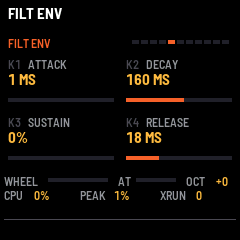
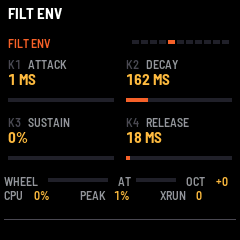
MB-1 0.2.0: the plugin's knob ranges, 32 slots, patches over SysEx
The knobs now run over MiniBrute V's ranges with its response (mb_tapers.h), so a knob position means the same
setting on both. 32 patch slots. A SysEx loader: a patch into a slot, store, play a slot, factory patches back.

Claude-Session: https://claude.ai/code/session_015VhpbL4VK8RUpw8F1mPpMk

Changed region(s): [[0.6125, 0.4083, 0.7875, 0.4375], [0.525, 0.6417, 0.6708, 0.6708], [0.5833, 0.3208, 0.6417, 0.3792]]

diff --git a/app/app.c b/app/app.c
@@ -7,18 +7,19 @@
  * (FILT ENV, AMP ENV), LFO the LFO and vibrato, EDIT the performance controls (glide, vintage, the wheel), GLO the
  * rest (sub octave and shape, Ultrasaw rate, level), FX the touch (aftertouch, PW and Metalizer envelope). SELECT
  * steps through every page. ALGO is the mod wheel (MIDI CC 1 too); the keys' pressure is aftertouch. PRESET picks
- * one of 16 patch slots (the first 8 hold factory sounds until saved over), SAVE stores the patch in the slot,
+ * one of 32 patch slots (the first 8 hold factory sounds until saved over), SAVE stores the patch in the slot,
  * OCT- / OCT+ the octave. Every parameter has a MIDI CC (PARAM[].cc), so a controller or a DAW can play them.
  *
  * Part of the unity build (device/unity.c, host/plat_host.c), after the platform: gfx.c and announce.c are in
  * scope. The engine is compiled apart at -O2 (fm1.toml o2). */
 #include "fastmath.h"
 #include "mbvoice.h"
+#include "mb_tapers.h"
 
 #define C_ACCENT RGB(240, 96, 40)       /* the highlight: Minibrute orange */
 
 /* ------------------------------------------------------------- parameters --- */
-enum { T_LVL, T_BIP, T_CUT, T_TIME, T_LFO, T_PW, T_USR, T_VIB, T_GLIDE, T_DB, T_MODE, T_LWAVE, T_VTYPE, T_WDEST,
+enum { T_LVL, T_BIP, T_KBD, T_CUT, T_ATT, T_DR, T_LFO, T_PW, T_USR, T_VIB, T_GLIDE, T_DB, T_MODE, T_LWAVE, T_VTYPE, T_WDEST,
        T_SUBOCT, T_SUBSHP };
 static const uint8_t ENUM_N[] = {[T_MODE] = 4, [T_LWAVE] = 6, [T_VTYPE] = 3, [T_WDEST] = 3, [T_SUBOCT] = 2,
                                  [T_SUBSHP] = 2};
@@ -43,14 +44,14 @@ typedef struct {
 /* the CCs: 20..31, then 70..101 (none of the reserved or the common ones) */
 static const param_t PARAM[NP] = {
     [P_CUT] = {"CUTOFF", T_CUT, 74},   [P_RES] = {"RESO", T_LVL, 71},     [P_BRUTE] = {"BRUTE", T_LVL, 20},
-    [P_FENV] = {"ENV AMT", T_BIP, 21}, [P_MODE] = {"MODE", T_MODE, 22},   [P_KBD] = {"KBD TRK", T_LVL, 23},
+    [P_FENV] = {"ENV AMT", T_BIP, 21}, [P_MODE] = {"MODE", T_MODE, 22},   [P_KBD] = {"KBD TRK", T_KBD, 23},
     [P_FVEL] = {"ENV VEL", T_LVL, 24}, [P_AVEL] = {"AMP VEL", T_LVL, 25},
     [P_SAW] = {"SAW", T_LVL, 26},      [P_SQR] = {"SQUARE", T_LVL, 27},   [P_TRI] = {"TRI", T_LVL, 28},
     [P_SUB] = {"SUB", T_LVL, 29},      [P_NOISE] = {"NOISE", T_LVL, 30},  [P_ULTRA] = {"ULTRASAW", T_LVL, 31},
     [P_PW] = {"PW", T_PW, 75},         [P_METAL] = {"METAL", T_LVL, 76},
-    [P_FA] = {"ATTACK", T_TIME, 77},   [P_FD] = {"DECAY", T_TIME, 78},    [P_FS] = {"SUSTAIN", T_LVL, 79},
-    [P_FR] = {"RELEASE", T_TIME, 80},  [P_AA] = {"ATTACK", T_TIME, 73},   [P_AD] = {"DECAY", T_TIME, 81},
-    [P_AS] = {"SUSTAIN", T_LVL, 82},   [P_AR] = {"RELEASE", T_TIME, 72},
+    [P_FA] = {"ATTACK", T_ATT, 77},   [P_FD] = {"DECAY", T_DR, 78},    [P_FS] = {"SUSTAIN", T_LVL, 79},
+    [P_FR] = {"RELEASE", T_DR, 80},  [P_AA] = {"ATTACK", T_ATT, 73},   [P_AD] = {"DECAY", T_DR, 81},
+    [P_AS] = {"SUSTAIN", T_LVL, 82},   [P_AR] = {"RELEASE", T_DR, 72},
     [P_LRATE] = {"RATE", T_LFO, 83},   [P_LWAVE] = {"WAVE", T_LWAVE, 84}, [P_LPITCH] = {"PITCH", T_BIP, 85},
     [P_LFILT] = {"FILTER", T_BIP, 86}, [P_LPWM] = {"PWM/MTL", T_BIP, 87}, [P_LAMP] = {"AMP", T_BIP, 88},
     [P_VRATE] = {"VIB RATE", T_VIB, 89}, [P_VTYPE] = {"VIB TYPE", T_VTYPE, 90},
@@ -80,7 +81,7 @@ static const page_t PAGE[] = {
 #define NPAGE (sizeof PAGE / sizeof PAGE[0])
 
 /* ---------------------------------------------------------------- patches --- */
-#define NSLOT 16u
+#define NSLOT 32u
 typedef struct {
     char name[8];                        /* upper case, space padded, no terminator needed */
     uint8_t v[NP];
@@ -88,11 +89,11 @@ typedef struct {
 
 /* INIT: a plain sawtooth through an open filter, organ envelope */
 static const uint8_t INIT_V[NP] = {
-    [P_CUT] = 100, [P_RES] = 0, [P_BRUTE] = 0, [P_FENV] = 64, [P_MODE] = 0, [P_KBD] = 0, [P_FVEL] = 0, [P_AVEL] = 0,
-    [P_SAW] = 127, [P_PW] = 0, [P_FA] = 0, [P_FD] = 70, [P_FS] = 0, [P_FR] = 40, [P_AA] = 0, [P_AD] = 60,
-    [P_AS] = 127, [P_AR] = 40, [P_LRATE] = 50, [P_LWAVE] = 0, [P_LPITCH] = 64, [P_LFILT] = 64, [P_LPWM] = 64,
-    [P_LAMP] = 64, [P_VRATE] = 70, [P_VTYPE] = 1, [P_GLIDE] = 0, [P_VINT] = 0, [P_WDEST] = 1, [P_WAMT] = 61,
-    [P_SUBOCT] = 0, [P_SUBSHP] = 0, [P_USRATE] = 50, [P_LEVEL] = 90, [P_PWENV] = 64, [P_MTENV] = 64,
+    [P_CUT] = 96, [P_RES] = 0, [P_BRUTE] = 0, [P_FENV] = 64, [P_MODE] = 0, [P_KBD] = 0, [P_FVEL] = 0, [P_AVEL] = 0,
+    [P_SAW] = 127, [P_PW] = 0, [P_FA] = 0, [P_FD] = 27, [P_FS] = 0, [P_FR] = 5, [P_AA] = 0, [P_AD] = 17,
+    [P_AS] = 127, [P_AR] = 5, [P_LRATE] = 51, [P_LWAVE] = 0, [P_LPITCH] = 64, [P_LFILT] = 64, [P_LPWM] = 64,
+    [P_LAMP] = 64, [P_VRATE] = 57, [P_VTYPE] = 1, [P_GLIDE] = 0, [P_VINT] = 0, [P_WDEST] = 1, [P_WAMT] = 61,
+    [P_SUBOCT] = 0, [P_SUBSHP] = 0, [P_USRATE] = 31, [P_LEVEL] = 60, [P_PWENV] = 64, [P_MTENV] = 64,
 };
 /* the factory sounds: changes from INIT (parameter, value; 0xFF ends) */
 static const struct {
@@ -100,18 +101,18 @@ static const struct {
     uint8_t d[28];
 } FACTORY[] = {
     {"INIT", {0xFF}},
-    {"BASS", {P_SUB, 100, P_CUT, 45, P_RES, 40, P_BRUTE, 60, P_FENV, 100, P_FD, 60, P_AD, 70, P_AS, 100, P_AR, 30,
-              P_KBD, 64, 0xFF}},
-    {"ACID", {P_SAW, 0, P_SQR, 127, P_CUT, 40, P_RES, 100, P_FENV, 110, P_FD, 55, P_GLIDE, 30, P_WDEST, 2,
-              P_AR, 20, 0xFF}},
-    {"METALEAD", {P_SAW, 60, P_TRI, 127, P_METAL, 70, P_CUT, 90, P_RES, 50, P_VINT, 40, P_GLIDE, 15, P_KBD, 100,
+    {"BASS", {P_SUB, 100, P_CUT, 35, P_RES, 40, P_BRUTE, 60, P_FENV, 100, P_FD, 17, P_AD, 27, P_AS, 100, P_AR, 2,
+              P_KBD, 32, 0xFF}},
+    {"ACID", {P_SAW, 0, P_SQR, 127, P_CUT, 30, P_RES, 100, P_FENV, 110, P_FD, 13, P_GLIDE, 27, P_WDEST, 2,
+              P_AR, 1, 0xFF}},
+    {"METALEAD", {P_SAW, 60, P_TRI, 127, P_METAL, 70, P_CUT, 85, P_RES, 50, P_VINT, 40, P_GLIDE, 15, P_KBD, 50,
                   0xFF}},
-    {"ULTRAPAD", {P_ULTRA, 100, P_USRATE, 40, P_CUT, 70, P_RES, 30, P_FENV, 80, P_FA, 80, P_FD, 95, P_FS, 60,
-                  P_AA, 85, P_AD, 90, P_AS, 110, P_AR, 90, 0xFF}},
-    {"PERC", {P_SAW, 0, P_NOISE, 127, P_MODE, 1, P_CUT, 80, P_RES, 90, P_AD, 50, P_AS, 0, P_AR, 50, P_FENV, 90,
-              P_FD, 50, 0xFF}},
-    {"BRASS", {P_SQR, 60, P_CUT, 50, P_FENV, 110, P_FA, 50, P_FD, 75, P_FS, 60, P_AA, 30, P_AR, 50, 0xFF}},
-    {"WOBBLE", {P_SUB, 90, P_CUT, 45, P_RES, 70, P_LRATE, 50, P_LFILT, 110, P_BRUTE, 50, P_WDEST, 0, 0xFF}},
+    {"ULTRAPAD", {P_ULTRA, 100, P_USRATE, 25, P_CUT, 62, P_RES, 30, P_FENV, 80, P_FA, 52, P_FD, 60, P_FS, 60,
+                  P_AA, 59, P_AD, 53, P_AS, 110, P_AR, 53, 0xFF}},
+    {"PERC", {P_SAW, 0, P_NOISE, 127, P_MODE, 1, P_CUT, 73, P_RES, 90, P_AD, 10, P_AS, 0, P_AR, 10, P_FENV, 90,
+              P_FD, 10, 0xFF}},
+    {"BRASS", {P_SQR, 60, P_CUT, 40, P_FENV, 110, P_FA, 16, P_FD, 33, P_FS, 60, P_AA, 5, P_AR, 10, 0xFF}},
+    {"WOBBLE", {P_SUB, 90, P_CUT, 35, P_RES, 70, P_LRATE, 51, P_LFILT, 110, P_BRUTE, 50, P_WDEST, 0, 0xFF}},
 };
 #define NFACTORY (sizeof FACTORY / sizeof FACTORY[0])
 
@@ -136,7 +137,7 @@ static void patch_factory(patch_t *p, uint32_t slot)
         p->v[FACTORY[slot].d[i]] = FACTORY[slot].d[i + 1u];
 }
 
-#define BANK_MAGIC 0x4D423142u           /* "MB1B" */
+#define BANK_MAGIC 0x4D423143u           /* "MB1C": 32 slots ("MB1B": 0.1's 16) */
 typedef struct {
     uint32_t magic;
     patch_t slot[NSLOT];
@@ -158,14 +159,24 @@ static uint8_t set_dirty;
 /* ---------------------------------------------------------------- mapping --- */
 static float lvl(uint32_t x) { return (float)x * (1.0f / 127.0f); }
 static float bip(uint32_t x) { return fm_clampf(((float)x - 64.0f) * (1.0f / 63.0f), -1.0f, 1.0f); }
-static float expo(uint32_t x, float lo, float ratio) { return lo * fm_exp2f(fm_log2f(ratio) * lvl(x)); }
-static float cut_hz(uint32_t x) { return expo(x, 20.0f, 1000.0f); }          /* 20 Hz .. 20 kHz */
-static float time_s(uint32_t x) { return expo(x, 0.001f, 10000.0f); }        /* 1 ms .. 10 s */
-static float lfo_hz(uint32_t x) { return expo(x, 0.1f, 1000.0f); }           /* 0.1 .. 100 Hz */
-static float usr_hz(uint32_t x) { return expo(x, 0.1f, 100.0f); }            /* 0.1 .. 10 Hz */
-static float vib_hz(uint32_t x) { return expo(x, 0.5f, 40.0f); }             /* 0.5 .. 20 Hz */
-static float glide_s(uint32_t x) { return x ? expo(x, 0.005f, 1000.0f) : 0.0f; }   /* off, 5 ms .. 5 s an octave */
-static float level_db(uint32_t x) { return ((float)x - 100.0f) * 0.3f; }     /* -30 .. +8 dB, 0 dB at 100 */
+/* the knobs as the plugin's (mb_tapers.h): x 0..127 is the plugin's 0..1 */
+static float taper(const float *t, uint32_t x)
+{
+    float f = lvl(x) * (float)(TP_N - 1);
+    uint32_t i = (uint32_t)f;
+    if (i >= TP_N - 1u)
+        return t[TP_N - 1];
+    return t[i] + (t[i + 1u] - t[i]) * (f - (float)i);
+}
+static float cut_hz(uint32_t x) { return taper(TP_CUT, x); }        /* 20 Hz .. 20 kHz */
+static float att_s(uint32_t x) { return taper(TP_ATT, x); }         /* 1 ms .. 12.5 s */
+static float dr_s(uint32_t x) { return taper(TP_DR, x); }           /* 1 ms .. 25 s */
+static float lfo_hz(uint32_t x) { return taper(TP_LFO, x); }        /* 0.05 .. 100 Hz */
+static float usr_hz(uint32_t x) { return taper(TP_USR, x); }        /* 0.005 .. 43 Hz */
+static float vib_hz(uint32_t x) { return taper(TP_VIB, x); }        /* 1 .. 50 Hz */
+static float glide_s(uint32_t x) { return taper(TP_GLIDE, x); }     /* 0 .. 2 s an octave */
+static float level_db(uint32_t x) { return taper(TP_DB, x); }       /* -60 .. 0 dB, the plugin's master */
+#define LEVEL_OFFSET_DB 9.0f             /* MB-1's output above the plugin's master level */
 
 static void params_from(const uint8_t *v, MBParams *p)
 {
@@ -188,16 +199,16 @@ static void params_from(const uint8_t *v, MBParams *p)
     p->resonance = lvl(v[P_RES]);
     p->brute = lvl(v[P_BRUTE]);
     p->fenv_amt = bip(v[P_FENV]);
-    p->keytrack = lvl(v[P_KBD]);
+    p->keytrack = 2.0f * lvl(v[P_KBD]);   /* 0 .. 200 % */
     p->fenv_vel = lvl(v[P_FVEL]);
-    p->f_a = time_s(v[P_FA]);
-    p->f_d = time_s(v[P_FD]);
+    p->f_a = att_s(v[P_FA]);
+    p->f_d = dr_s(v[P_FD]);
     p->f_s = lvl(v[P_FS]);
-    p->f_r = time_s(v[P_FR]);
-    p->a_a = time_s(v[P_AA]);
-    p->a_d = time_s(v[P_AD]);
+    p->f_r = dr_s(v[P_FR]);
+    p->a_a = att_s(v[P_AA]);
+    p->a_d = dr_s(v[P_AD]);
     p->a_s = lvl(v[P_AS]);
-    p->a_r = time_s(v[P_AR]);
+    p->a_r = dr_s(v[P_AR]);
     p->amp_vel = lvl(v[P_AVEL]);
     p->lfo_wave = v[P_LWAVE];
     p->lfo_rate_hz = lfo_hz(v[P_LRATE]);
@@ -213,7 +224,7 @@ static void params_from(const uint8_t *v, MBParams *p)
     p->at_cut = lvl(v[P_ATCUT]);
     p->glide_s_oct = glide_s(v[P_GLIDE]);
     p->vintage = lvl(v[P_VINT]);
-    p->master_db = level_db(v[P_LEVEL]);
+    p->master_db = level_db(v[P_LEVEL]) + LEVEL_OFFSET_DB;
 }
 
 /* ----------------------------------------------------------------- engine --- */
@@ -425,6 +436,74 @@ void app_init(void)
     events();                                /* (no audio yet: the patch in place before the first render) */
 }
 
+/* ------------------------------------------------------------ the loader --- */
+/* patches over USB SysEx: F0 7D 4D 42 CMD ... F7 (7D: non-commercial; "MB")
+ *   01 SLOT NAME[8] V[NP]   a patch into a slot (SLOT 0..31; NAME ASCII; V: each parameter 0..127, PARAM's order);
+ *                           kept in RAM until 02. The slot playing: played at once
+ *   02                      the slots stored in the flash
+ *   03                      the factory slots back (stored)
+ *   04 SLOT                 a slot played (as PRESET)
+ * A frame's answer: F0 7D 4D 42 7F CMD STATUS F7 (STATUS 0 done, 1 refused) */
+static uint8_t bank_loaded;                  /* slots came in over SysEx since the last store */
+static void name_text(const patch_t *p, char *b);
+static void sysex_answer(uint32_t cmd, uint32_t st)
+{
+    uint8_t a[8] = {0xF0, 0x7D, 0x4D, 0x42, 0x7F, (uint8_t)cmd, (uint8_t)st, 0xF7};
+    (void)plat_sysex_send(a, sizeof a);
+}
+static int bank_store(void)
+{
+    int r = plat_store_save(OBJ_BANK, &bank, sizeof bank);
+    if (r == 0)
+        r = plat_store_save(OBJ_SETTINGS, &set, sizeof set);   /* (the slot playing, too) */
+    if (r == 0) {
+        bank_loaded = 0;
+        set_dirty = 0;
+    }
+    return r;
+}
+int app_sysex(const uint8_t *p, uint32_t n)
+{
+    uint32_t cmd, i;
+    char t[16];
+    if (n < 4u || p[0] != 0x7Du || p[1] != 0x4Du || p[2] != 0x42u)
+        return 0;
+    cmd = p[3];
+    if (cmd == 1u && n == 5u + 8u + NP && p[4] < NSLOT) {
+        patch_t *d = &bank.slot[p[4]];
+        for (i = 0; i < 8u; i++)
+            d->name[i] = p[5u + i] >= 32u && p[5u + i] < 127u ? (char)p[5u + i] : ' ';
+        for (i = 0; i < NP; i++)
+            d->v[i] = (uint8_t)(p[13u + i] > pmax(i) ? pmax(i) : p[13u + i]);
+        bank_loaded = 1;
+        if (p[4] == set.slot)
+            slot_load(set.slot);
+        sysex_answer(cmd, 0);
+    } else if (cmd == 2u && n == 4u) {
+        i = (uint32_t)bank_store();
+        app_say(i ? "STORE" : "PATCHES", i ? "FAILED" : "STORED");
+        sysex_answer(cmd, i ? 1u : 0u);
+    } else if (cmd == 3u && n == 4u) {
+        for (i = 0; i < NSLOT; i++)
+            patch_factory(&bank.slot[i], i);
+        i = (uint32_t)bank_store();
+        slot_load(set.slot);
+        app_say("FACTORY", i ? "FAILED" : "PATCHES");
+        sysex_answer(cmd, i ? 1u : 0u);
+    } else if (cmd == 4u && n == 5u && p[4] < NSLOT) {
+        slot_load(p[4]);
+        sysex_answer(cmd, 0);
+    } else {
+        sysex_answer(cmd, 1);
+        return 1;
+    }
+    if (cmd == 1u || cmd == 4u) {
+        name_text(&set.cur, t);
+        app_say("LOADED", t);
+    }
+    return 1;
+}
+
 /* --------------------------------------------------------------------- UI --- */
 static struct {
     char msg[2][24];
@@ -516,8 +595,15 @@ static void value_text(uint32_t i, uint32_t x, char *b)
     case T_CUT:
         hz_text(cut_hz(x), b);
         break;
-    case T_TIME:
-        time_text(time_s(x), b);
+    case T_KBD:
+        int_text((int32_t)(x * 200u + 63u) / 127, b);
+        text_cat(b, "%");
+        break;
+    case T_ATT:
+        time_text(att_s(x), b);
+        break;
+    case T_DR:
+        time_text(dr_s(x), b);
         break;
     case T_LFO:
         hz_text(lfo_hz(x), b);
@@ -539,14 +625,12 @@ static void value_text(uint32_t i, uint32_t x, char *b)
             time_text(glide_s(x), b);
         break;
     case T_DB: {
-        int32_t d = ((int32_t)x - 100) * 3;  /* tenths of a dB */
-        if (d > 0)
-            text_cat(b, "+");
-        if (d < 0) {
+        float d = level_db(x);
+        if (d < -0.05f) {
             text_cat(b, "-");
             d = -d;
         }
-        dec1_text((float)d * 0.1f, b + (b[0] != 0));
+        dec1_text(d, b + (b[0] != 0));
         text_cat(b, " DB");
         break;
     }

diff --git a/app/mb_tapers.h b/app/mb_tapers.h
@@ -1,0 +1,22 @@
+/* SPDX-License-Identifier: MIT
+ * The knobs' response: each parameter's value at 33 even steps of its knob (0, 1/32 .. 1), as the MiniBrute V
+ * plugin shows it, so that MB-1's knob positions mean what the plugin's do. Read off the plugin's parameter
+ * display during the measurements (tools: the capture rig, not in this repository). */
+#pragma once
+#define TP_N 33
+static const float TP_CUT[TP_N] = {   /* filter_cutoff, Hz */
+    20.0f, 30.2f, 42.6f, 57.5f, 75.5f, 97.1f, 123.0f, 155.0f, 193.0f, 239.0f, 294.0f, 361.0f, 441.0f, 539.0f, 656.0f, 797.0f, 968.0f, 1173.0f, 1421.0f, 1721.0f, 2081.0f, 2517.0f, 3042.0f, 3675.0f, 4440.0f, 5361.0f, 6473.0f, 7814.0f, 9432.0f, 11383.0f, 13737.0f, 16576.0f, 20000.0f};
+static const float TP_ATT[TP_N] = {   /* filter_envelope_attack, s */
+    0.001f, 0.007f, 0.015f, 0.024f, 0.036f, 0.049f, 0.066f, 0.085f, 0.109f, 0.138f, 0.172f, 0.214f, 0.265f, 0.325f, 0.399f, 0.487f, 0.594f, 0.722f, 0.878f, 1.06f, 1.29f, 1.56f, 1.89f, 2.29f, 2.77f, 3.34f, 4.04f, 4.88f, 5.89f, 7.11f, 8.58f, 10.4f, 12.5f};
+static const float TP_DR[TP_N] = {   /* filter_envelope_decay, s */
+    0.001f, 0.014f, 0.029f, 0.048f, 0.07f, 0.098f, 0.13f, 0.17f, 0.217f, 0.275f, 0.344f, 0.427f, 0.528f, 0.65f, 0.796f, 0.973f, 1.19f, 1.44f, 1.75f, 2.13f, 2.58f, 3.13f, 3.78f, 4.57f, 5.53f, 6.68f, 8.08f, 9.75f, 11.8f, 14.2f, 17.2f, 20.7f, 25.0f};
+static const float TP_LFO[TP_N] = {   /* lfo_rate_free_hertz, Hz */
+    0.05f, 0.072f, 0.1f, 0.135f, 0.178f, 0.231f, 0.298f, 0.381f, 0.484f, 0.612f, 0.772f, 0.971f, 1.22f, 1.53f, 1.91f, 2.39f, 2.98f, 3.72f, 4.64f, 5.78f, 7.21f, 8.98f, 11.2f, 13.9f, 17.3f, 21.6f, 26.9f, 33.5f, 41.7f, 51.9f, 64.6f, 80.3f, 100.0f};
+static const float TP_USR[TP_N] = {   /* ultrasaw_rate, Hz */
+    0.005f, 0.047f, 0.097f, 0.155f, 0.223f, 0.304f, 0.399f, 0.51f, 0.642f, 0.796f, 0.978f, 1.19f, 1.44f, 1.74f, 2.09f, 2.5f, 2.98f, 3.54f, 4.21f, 4.99f, 5.92f, 7.0f, 8.28f, 9.78f, 11.5f, 13.6f, 16.1f, 19.0f, 22.3f, 26.3f, 31.0f, 36.5f, 43.0f};
+static const float TP_VIB[TP_N] = {   /* vibrato_rate, Hz */
+    1.0f, 1.06f, 1.12f, 1.2f, 1.29f, 1.39f, 1.52f, 1.66f, 1.83f, 2.02f, 2.25f, 2.52f, 2.84f, 3.2f, 3.63f, 4.13f, 4.72f, 5.4f, 6.2f, 7.14f, 8.23f, 9.51f, 11.0f, 12.8f, 14.8f, 17.2f, 20.0f, 23.3f, 27.1f, 31.5f, 36.8f, 42.9f, 50.0f};
+static const float TP_GLIDE[TP_N] = {   /* pitch_glide_amount_s, s/oct */
+    0.0f, 0.002f, 0.005f, 0.008f, 0.012f, 0.016f, 0.021f, 0.027f, 0.034f, 0.042f, 0.051f, 0.062f, 0.075f, 0.09f, 0.107f, 0.128f, 0.152f, 0.18f, 0.212f, 0.251f, 0.295f, 0.347f, 0.408f, 0.48f, 0.563f, 0.661f, 0.775f, 0.908f, 1.06f, 1.25f, 1.46f, 1.71f, 2.0f};
+static const float TP_DB[TP_N] = {   /* master_volume_db, dB */
+    -60.0f, -54.3f, -49.2f, -44.5f, -40.3f, -36.4f, -32.8f, -29.6f, -26.7f, -24.0f, -21.6f, -19.4f, -17.4f, -15.5f, -13.9f, -12.3f, -10.9f, -9.68f, -8.54f, -7.49f, -6.54f, -5.67f, -4.88f, -4.17f, -3.51f, -2.92f, -2.37f, -1.88f, -1.43f, -1.02f, -0.648f, -0.309f, 0.0f};

diff --git a/app/app.h b/app/app.h
@@ -8,6 +8,8 @@
 #define APP_SPLASH_RGB RGB(240, 96, 40)
 #define APP_BLOCK 256u                   /* frames per audio block: 5.8 ms at 44.1 kHz */
 #define APP_TOUCH                        /* velocity and pressure from the keys (lib/touch.h) */
+#define APP_SYSEX                        /* patches over USB SysEx (app.c: the loader) */
+int app_sysex(const uint8_t *p, uint32_t n);
 
 /* the store: the settings (with the patch being played), the panel calibration and Bluetooth's (the platform's),
  * and the 16 patch slots (in the data area, its first sector) */

diff --git a/app/docs/MANUAL.md b/app/docs/MANUAL.md
@@ -19,7 +19,7 @@ wheel, the keys' pressure (aftertouch), the octave, the audio load (CPU: now, PE
 | HOME, SEL, ENV, LFO, EDIT, GLO, FX | A page; pressed again, its second page (the button of the page on screen is lit) |
 | SELECT | Steps through every page |
 | ALGO | The mod wheel (sent as MIDI CC 1 too). Where it goes: PERFORM, WHEEL TO |
-| PRESET | The patch slot, 1..16. Turning it loads the slot (unsaved changes are dropped) |
+| PRESET | The patch slot, 1..32. Turning it loads the slot (unsaved changes are dropped) |
 | SAVE | Stores the patch in its slot, and the settings (lit when there is something to save) |
 | OCT- / OCT+ | The keyboard's octave, -2..+2 |
 | The keys | Notes with velocity; pressing harder is aftertouch |
@@ -50,10 +50,21 @@ Notes on a few of them:
 
 ## The patches
 
-Slots 1..8 start with factory sounds: INIT, BASS, ACID, METALEAD, ULTRAPAD, PERC, BRASS, WOBBLE. Slots 9..16 start as
+Slots 1..8 start with factory sounds: INIT, BASS, ACID, METALEAD, ULTRAPAD, PERC, BRASS, WOBBLE. Slots 9..32 start as
 INIT. SAVE writes over the slot shown.
 
-## MIDI
+## The knobs' range
+
+Every knob runs over the same range, with the same feel, as the MiniBrute V plugin's: the cutoff from 20 Hz to 20 kHz,
+the attacks to 12.5 s, the decays and releases to 25 s, KBD TRK to 200 %, GLIDE to 2 s an octave, the LFO from
+0.05 to 100 Hz, VIB RATE from 1 to 50 Hz, US RATE from 0.005 to 43 Hz. A knob at the same place as the plugin's
+knob is the same setting.
+
+## Loading patches from a computer
+
+MB-1 takes patches over USB MIDI SysEx (`F0 7D 4D 42 ...`, app/app.c "the loader"): a patch into a slot, the
+slots stored, a slot played, the factory patches back. Each frame is answered.
+
 
 MB-1 plays from USB, Bluetooth and TRS MIDI on any channel: notes, pitch bend (±2 semitones), the mod wheel (CC 1),
 aftertouch (channel or poly), all notes off (CC 120, 123), and every parameter by its CC. The keys and the knobs are
